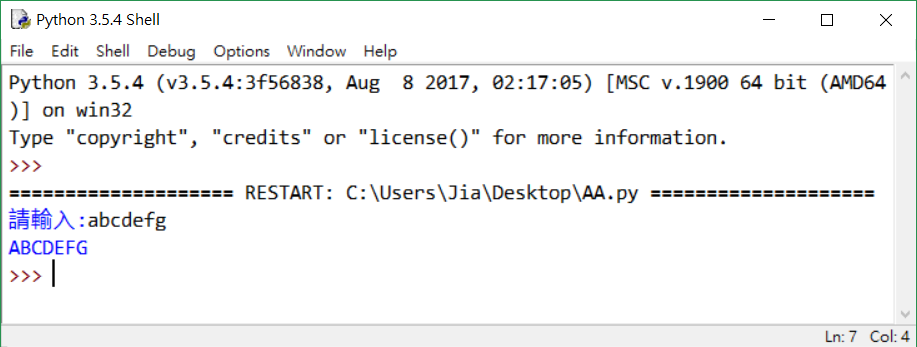
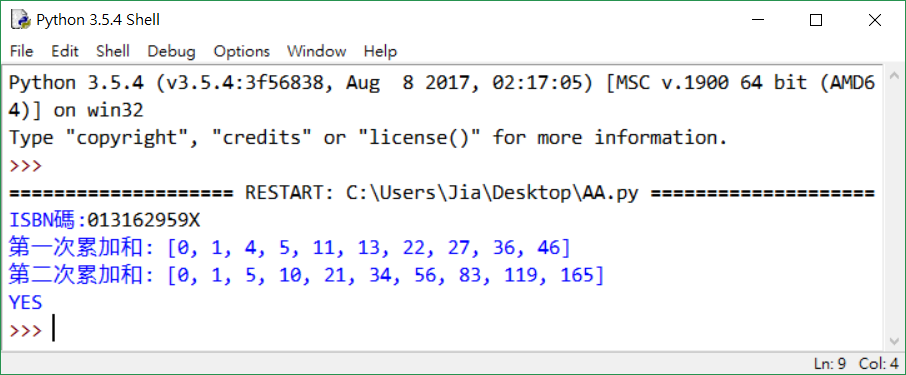
更新

diff --git a/file/code/hw17.py b/file/code/hw17.py
@@ -1,7 +1,21 @@
-a = input("請輸入:")
-print(a.upper())
+isbn = input("ISBN碼:")
+num=[]
 
-f = open('test.txt', 'a')
-f.write(a.upper())
-f.close()
+for i in isbn:
+    if i=='X':
+        num.append(10)
+    else:
+        num.append(int(i))
 
+for i in range(len(num)-1):
+    num[i+1] = num[i] + num[i+1]
+print("第一次累加和:" , num)
+
+for i in range(len(num)-1):
+    num[i+1] = num[i] + num[i+1]
+print("第二次累加和:" , num)
+
+if num[-1]%11 == 0:
+    print("YES")
+else:
+    print("NO")

diff --git a/file/code/hw18.py b/file/code/hw18.py
@@ -1,7 +1,7 @@
-f = open('problem.txt', 'r')
-s = f.read()
+a = input("請輸入:")
+print(a.upper())
+
+f = open('test.txt', 'a')
+f.write(a.upper())
 f.close()
 
-for i in s:
-    if (i>='a' and i<='z') or (i>='A' and i<='Z'):
-        print(i)

diff --git a/file/code/hw20.py b/file/code/hw20.py
@@ -1,0 +1,11 @@
+while True:
+    num = input("輸入:")
+
+    if num[-1]=='C':
+        out = int(num[:-1])*(9/5)+32
+        print(out,'F')
+    else:
+        out = (int(num[:-1])-32)*5/9
+        print(out,'C')
+
+    print()

diff --git a/file/code/hw19.py b/file/code/hw19.py
@@ -1,0 +1,7 @@
+f = open('problem.txt', 'r')
+s = f.read()
+f.close()
+
+for i in s:
+    if (i>='a' and i<='z') or (i>='A' and i<='Z'):
+        print(i)

diff --git a/file/problem.md b/file/problem.md
@@ -69,14 +69,7 @@ Fibonacci = 0, 1, 1, 2, 3, 5, 8, 13, 21, 34, 55, 89, 144, 233……<br/>
 顯示前10個斐波那契數列<br/>
 <img src="./image/problem162.png" width = "80%" alt="problem162"/><br/>
 
-17. 從鍵盤輸入一個字串，將小寫字母全部轉換成大寫字母，然後輸出到一個“test.txt”中保存。<br/>
-<img src="./image/problem171.png" width = "80%" alt="problem171"/><br/>
-<img src="./image/problem172.png" width = "40%" alt="problem172"/><br/>
-
-18. 有一個"problem.txt"檔案內有一長串亂碼，請從亂碼中找出英文字母，包括大小寫。<br/>
-<img src="./image/problem181.png" width = "80%" alt="problem181"/><br/>
-
-19. ISBN(International Standard Book Number)是一種世界共通的書籍編碼方法，世界上任何一本書籍之出版，皆有著唯一的一組ISBN碼。此碼由十個位數組成，每一位數可以為0~9的任何一個數字，或者為X，代表此位數為10。<br/>
+17. ISBN(International Standard Book Number)是一種世界共通的書籍編碼方法，世界上任何一本書籍之出版，皆有著唯一的一組ISBN碼。此碼由十個位數組成，每一位數可以為0~9的任何一個數字，或者為X，代表此位數為10。<br/>
 試寫出一個程式來判斷所輸入的ISBN碼是否為合法的。<br/>
 其判斷方法如下，首先，將此ISBN碼的十個位數分開，自左而右依次為第一位數，第二位數至第十位數，接著進行第一次的累加，使得第二位數成為第一位數到第二位數的和，第三位數為第一位數到第三位數的累加和，第十位數為第一位數到第十位數的累加和；進行完第一次的累加和後，接著再依照相同之方法進行第二次的累加動作，我們稱此時最後所求得之累加和為此ISBN碼之識別碼，倘若此識別碼為11的倍數，則此ISBN碼為合法的，故請輸出YES，反之請輸出NO。<br/>
 
@@ -87,5 +80,21 @@ Fibonacci = 0, 1, 1, 2, 3, 5, 8, 13, 21, 34, 55, 89, 144, 233……<br/>
 | 第二次累加和 | 0   | 1   | 5   | 10  | 21  | 34  | 56  | 83  | 119 | 165 |
 
 經由計算可得其識別碼為165，乃是11之倍數，故此為一合法之ISBN碼，因此應該要輸出YES於螢幕上。<br/>
+<img src="./image/problem171.png" width = "80%" alt="problem171"/><br/>
+
+18. 從鍵盤輸入一個字串，將小寫字母全部轉換成大寫字母，然後輸出到一個“test.txt”中保存。<br/>
+<img src="./image/problem181.png" width = "80%" alt="problem181"/><br/>
+<img src="./image/problem182.png" width = "40%" alt="problem182"/><br/>
+
+19. 有一個"problem.txt"檔案內有一長串亂碼，請從亂碼中找出英文字母，包括大小寫。<br/>
+<img src="./image/problem191.png" width = "80%" alt="problem191"/><br/>
+
+20. 請寫出一個華氏攝氏轉換器，輸入是一個由小數和字母F或C組成的字串，你需要將輸入轉換到與其對應的另一個溫度單位，並以相同的格式打印轉換值，並可以一直輸入。<br/>
+```
+轉換公式： 
+華氏 = 攝氏*(9/5)+32 
+攝氏 = (華氏-32)*5/9
+```
+<img src="./image/problem201.png" width = "80%" alt="problem201"/><br/>
 
 <br/>

diff --git a/file/tutorial05.md b/file/tutorial05.md
@@ -37,7 +37,7 @@
 f = open('123.txt', 'r+')
 print(f.read())
 
-f.write("string")
+f.write("測試")
 
 f.close()
 ```
@@ -78,11 +78,62 @@ print(time())
 | 7    | tm_yday  | 一年的第幾日 | 1 到 366(儒略歷)                  |
 | 8    | tm_isdst | 夏令時       | -1, 0, 1 是決定是否為夏令時的旗幟 |
 
-asctime()
-http://www.runoob.com/python/python-date-time.html
+格式化日期時間<br/>
+```python time.asctime()```<br/>
+```python time.strftime()```<br/>
+```python
+import time
 
+t = time.localtime()
+print(t)
+#time.struct_time(tm_year=2018, tm_mon=6, tm_mday=5, tm_hour=20, tm_min=50, tm_sec=19, tm_wday=1, tm_yday=156, tm_isdst=0)
 
+t = time.asctime(time.localtime())
+print(t)
+#Tue Jun  5 20:50:19 2018
 
+t = time.strftime("%Y-%m-%d %H:%M:%S", time.localtime())
+print(t)
+#2018-06-05 20:50:19
+```
+
+python中時間日期格式化符號：<br/>
+| 符號 | 代表                                      |
+| ---- | ----------------------------------------- |
+| %y   | 兩位數的年份表示（00-99）                 |
+| %Y   | 四位數的年份表示（000-9999                |
+| %m   | 月份（01-12）                             |
+| %d   | 月內中的一天（0-31）                      |
+| %H   | 24小時制小時數（0-23）                    |
+| %I   | 12小時制小時數（01-12）                   |
+| %M   | 分鐘數（00=59）                           |
+| %S   | 秒（00-59）                               |
+| %a   | 本地簡化星期名稱                          |
+| %A   | 本地完整星期名稱                          |
+| %b   | 本地簡化的月份名稱                        |
+| %B   | 本地完整的月份名稱                        |
+| %c   | 本地相應的日期表示和時間表示              |
+| %j   | 年內的一天（001-366）                     |
+| %p   | 本地AM或PM的等價符                        |
+| %U   | 一年中的星期數（00-53）星期天為星期的開始 |
+| %w   | 星期（0-6），星期天為星期的開始           |
+| %W   | 一年中的星期數（00-53）星期一為星期的開始 |
+| %x   | 本地相應的日期表示                        |
+| %X   | 本地相應的時間表示                        |
+| %Z   | 當前時區的名稱                            |
+
+<br/>
+
+#### Calendar 日曆
+```python
+import calendar
+
+cal = calendar.month(2018, 6)
+print("以下輸出2018年6月份的日曆:")
+print(cal)
+```
+<img src="./image/tutorial05_image03.png"  alt="tutorial05_image03.png" width="80%"/><br>
+<br/>
 
 ### 視窗
 Tkinter是使用Python進行窗口視窗設計的模組，Python自帶的可編輯的GUI界面<br/>
